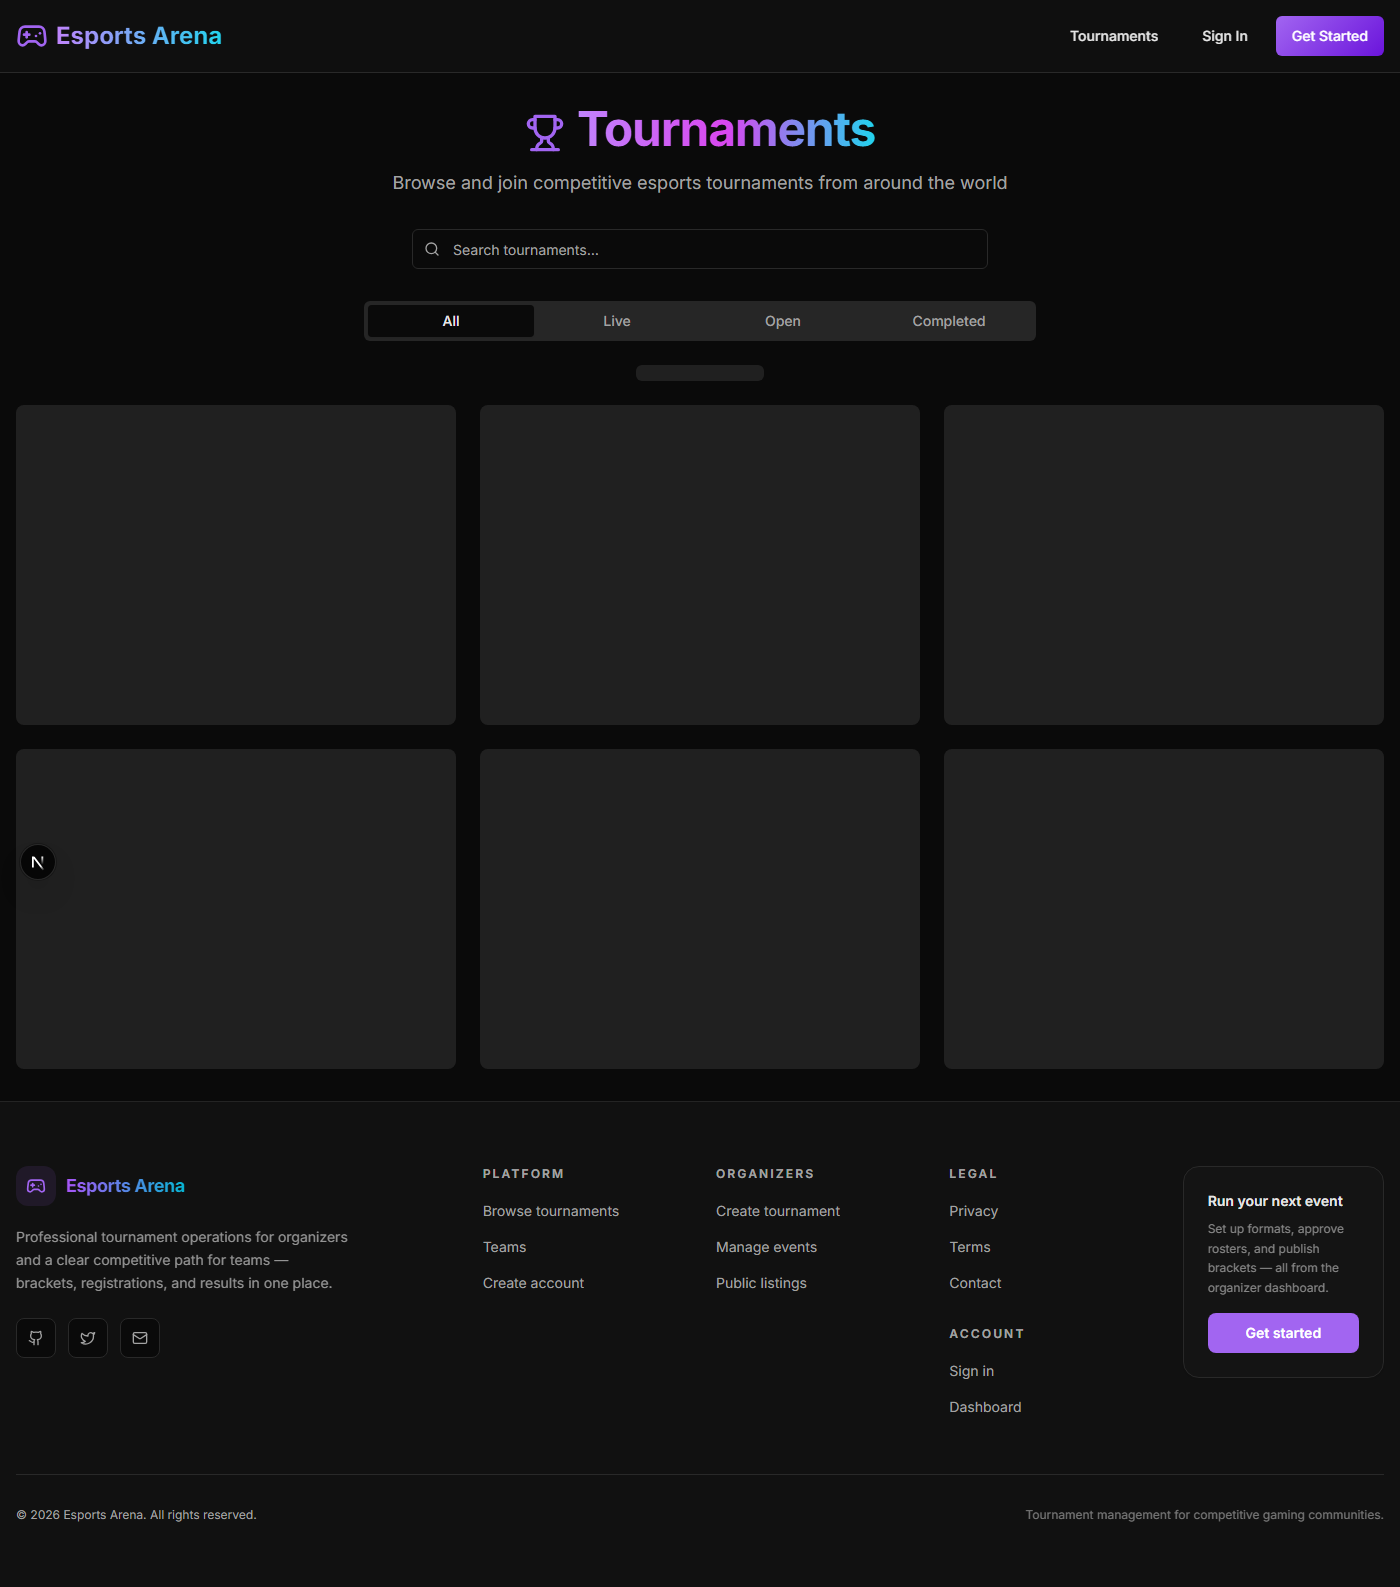
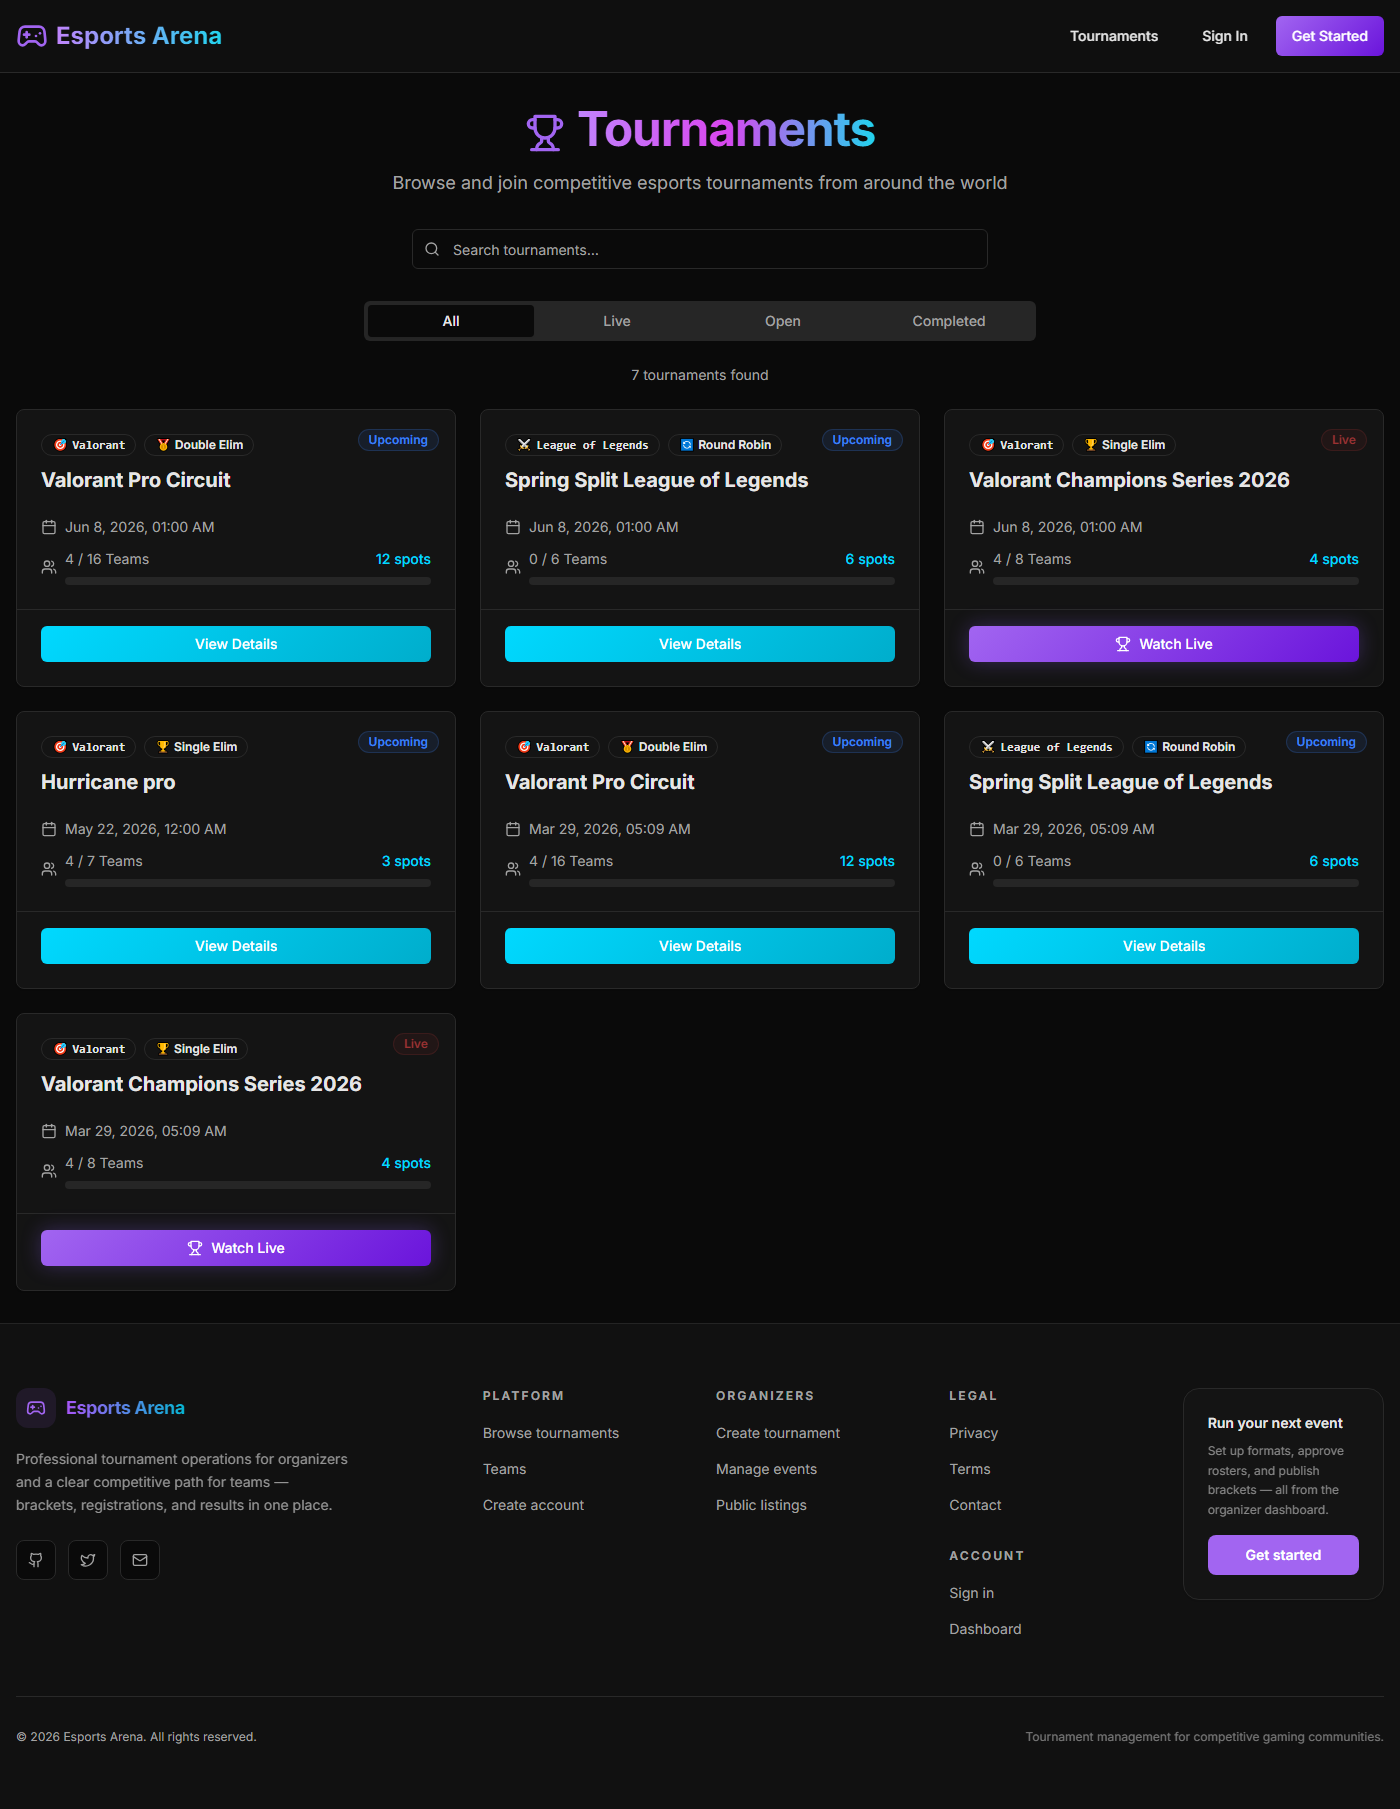
fix(screenshots): wait for tournaments and teams data before capture
Wait for tRPC browse results to render real cards instead of skeleton loaders on public list pages.

diff --git a/scripts/capture-portfolio-screenshots.ts b/scripts/capture-portfolio-screenshots.ts
@@ -3,6 +3,7 @@ import { mkdir } from 'node:fs/promises'
 import path from 'node:path'
 import { chromium, type Page } from 'playwright'
 import { LIVE_DEMO_URL } from '../docs/demo-site'
+import { waitForTeamsBrowseLoaded, waitForTournamentsBrowseLoaded } from './lib/screenshot-browse'
 import { assertScreenshotBaseUrlReachable, screenshotSignIn } from './lib/screenshot-sign-in'
 
 const baseUrl = process.env.SCREENSHOT_BASE_URL ?? LIVE_DEMO_URL
@@ -31,8 +32,14 @@ async function capturePublicPages() {
   ] as const
 
   for (const route of routes) {
-    await page.goto(new URL(route.url, baseUrl).toString(), { waitUntil: 'networkidle' })
-    await page.waitForTimeout(route.waitMs)
+    await page.goto(new URL(route.url, baseUrl).toString(), { waitUntil: 'domcontentloaded' })
+    if (route.url === '/tournaments') {
+      await waitForTournamentsBrowseLoaded(page)
+    } else if (route.url === '/teams') {
+      await waitForTeamsBrowseLoaded(page)
+    } else {
+      await page.waitForTimeout(route.waitMs)
+    }
     await page.screenshot({
       path: path.join(outputDir, route.file),
       fullPage: route.fullPage,
@@ -75,11 +82,12 @@ async function captureTournamentDetailWithBracket() {
   const browser = await chromium.launch()
   const page = await browser.newPage({ viewport })
 
-  await page.goto(new URL('/tournaments', baseUrl).toString(), { waitUntil: 'networkidle' })
-  await page.waitForTimeout(2000)
+  await page.goto(new URL('/tournaments', baseUrl).toString(), { waitUntil: 'domcontentloaded' })
+  await waitForTournamentsBrowseLoaded(page)
 
-  const tournamentLink = page.locator('a[href^="/tournaments/"]').first()
-  await tournamentLink.waitFor({ timeout: 20_000 })
+  const tournamentLink = page
+    .getByRole('link', { name: /Register Now|View Details|Watch Live/i })
+    .first()
   const href = await tournamentLink.getAttribute('href')
   if (!href) {
     throw new Error('No tournament detail link found on /tournaments')

diff --git a/scripts/lib/screenshot-browse.ts b/scripts/lib/screenshot-browse.ts
@@ -1,0 +1,17 @@
+import type { Page } from 'playwright'
+
+/** Wait until the public tournaments grid has real cards (not skeleton placeholders). */
+export async function waitForTournamentsBrowseLoaded(page: Page): Promise<void> {
+  await page.getByText(/\d+ tournaments? found/i).waitFor({ timeout: 60_000 })
+  await page
+    .getByRole('link', { name: /Register Now|View Details|Watch Live/i })
+    .first()
+    .waitFor({ timeout: 30_000 })
+  await page.waitForTimeout(500)
+}
+
+/** Wait until the public teams grid has real cards (not skeleton placeholders). */
+export async function waitForTeamsBrowseLoaded(page: Page): Promise<void> {
+  await page.getByRole('button', { name: /^View Team$/i }).first().waitFor({ timeout: 60_000 })
+  await page.waitForTimeout(500)
+}

diff --git a/docs/SCREENSHOTS.md b/docs/SCREENSHOTS.md
@@ -14,6 +14,8 @@ Optional: `SCREENSHOT_BASE_URL=http://localhost:3000` to capture a local dev ser
 
 Sign-in uses the **Auth.js API** (not the login form), so React hydration timing no longer breaks captures.
 
+Browse pages (`/tournaments`, `/teams`) wait for loaded cards (count text / “View Team” buttons), not skeleton placeholders.
+
 ### If local capture fails
 
 1. **Port stuck / timeouts** — Something on `:3000` may be hung while Next runs on `:3002`. Stop all `node` dev servers, free the port, then `npm run dev` and set `SCREENSHOT_BASE_URL` to the URL Next prints.
